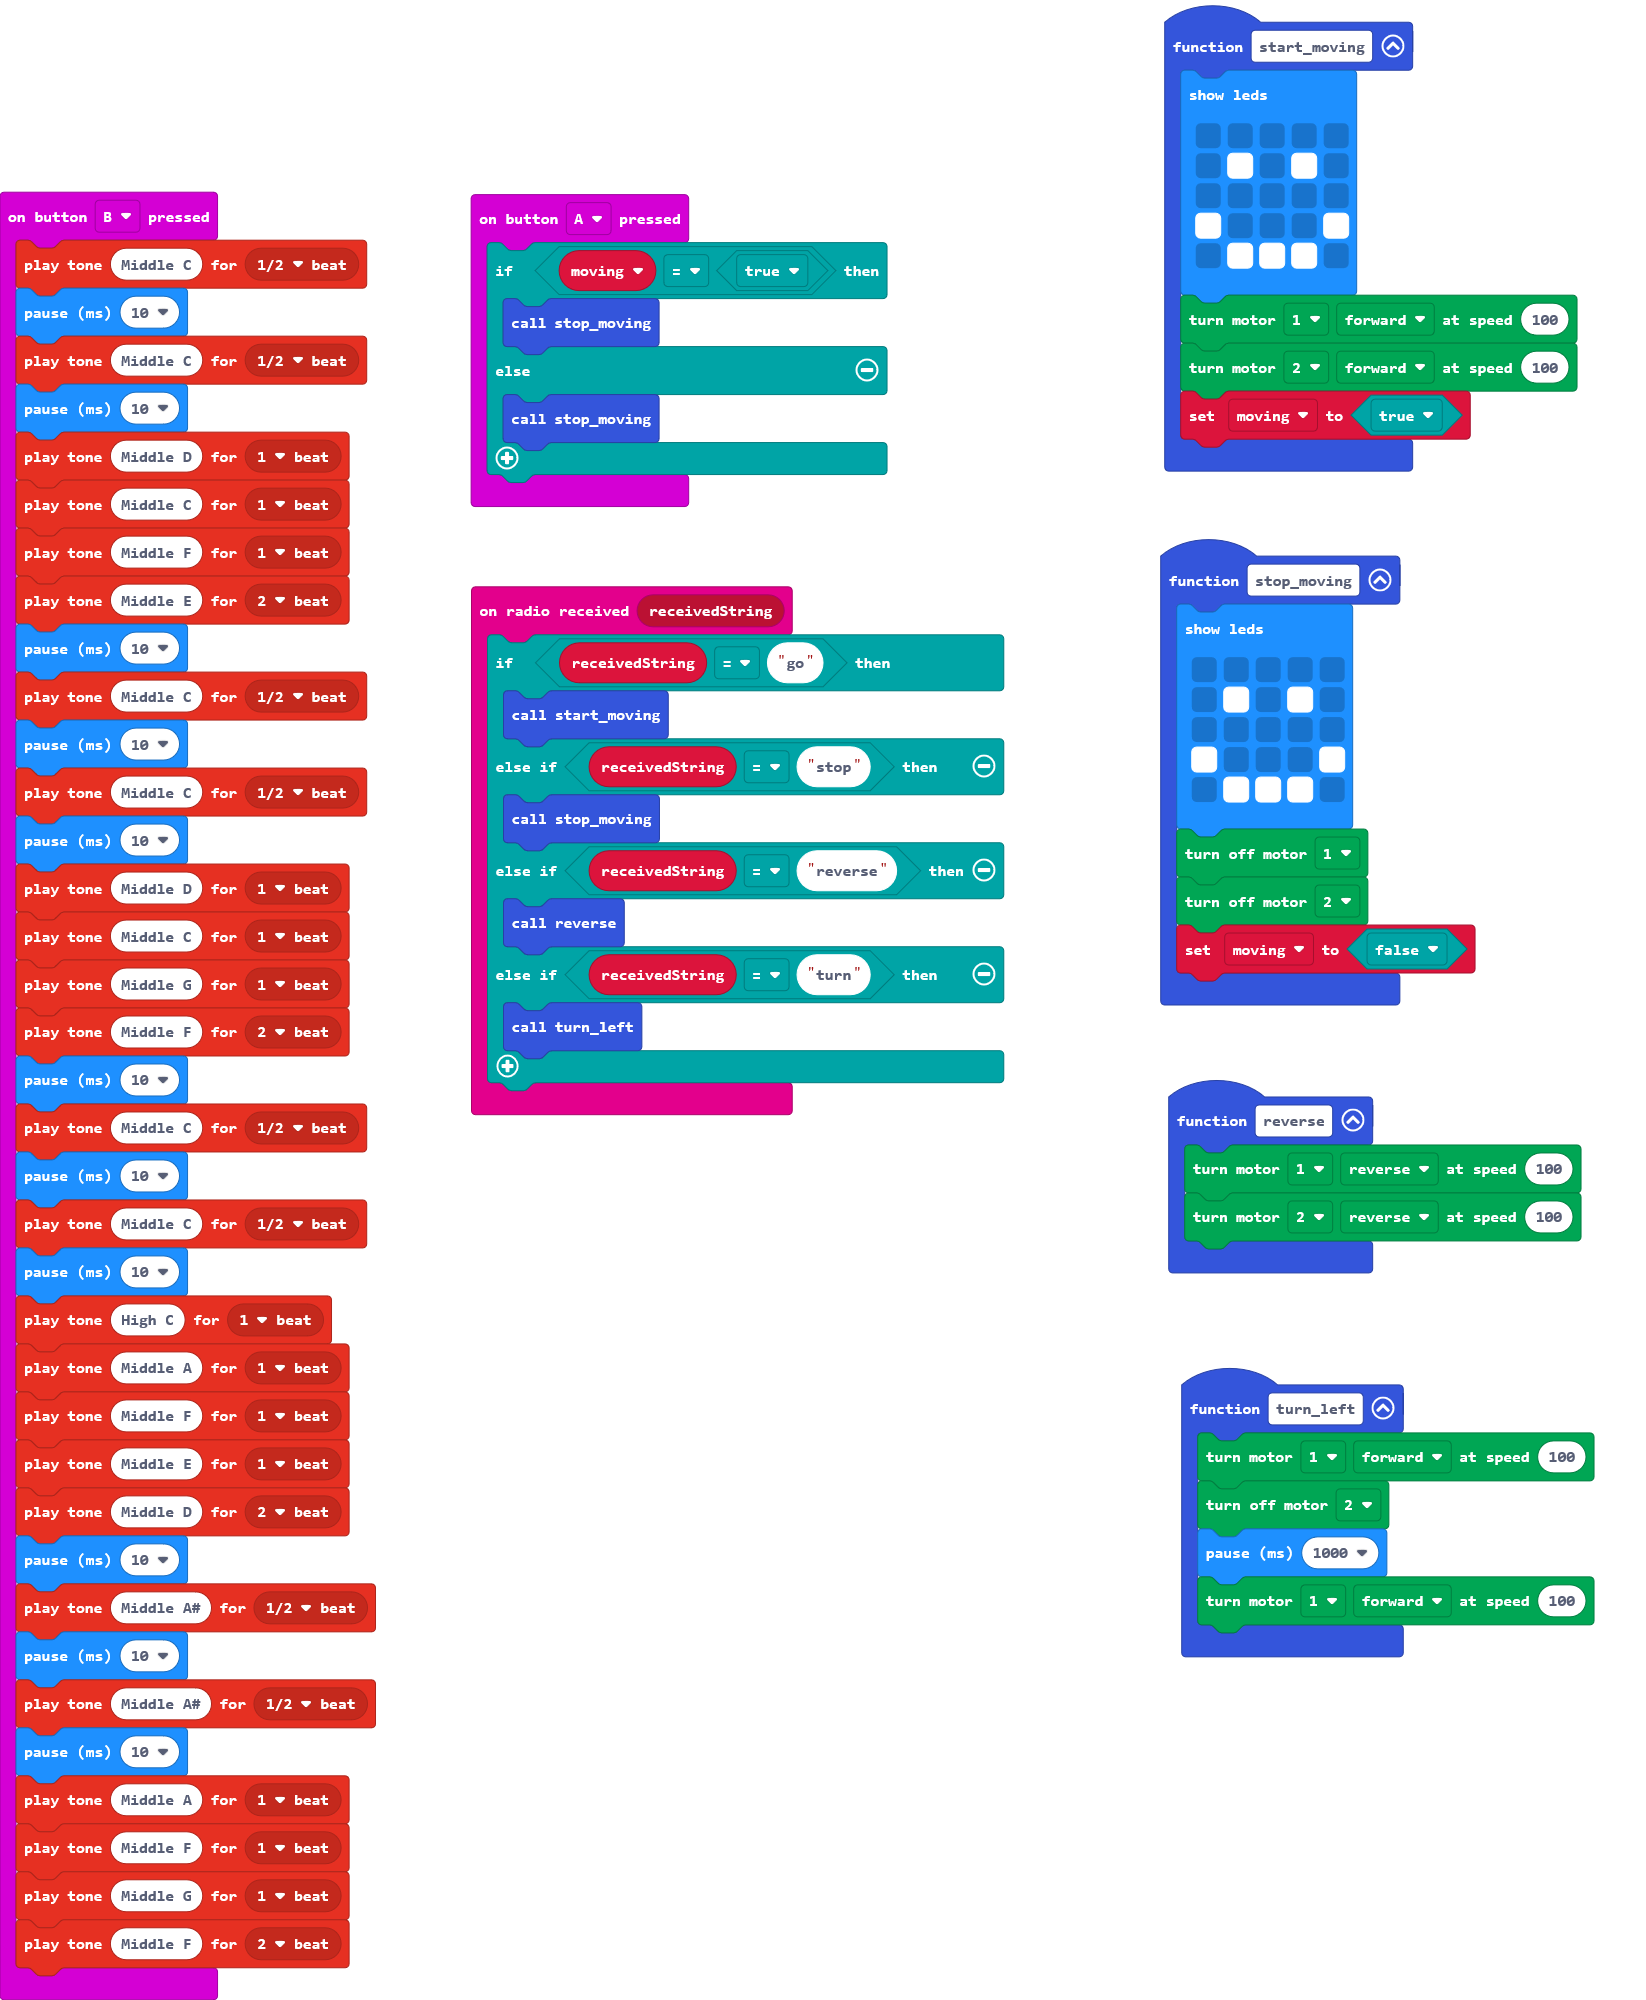
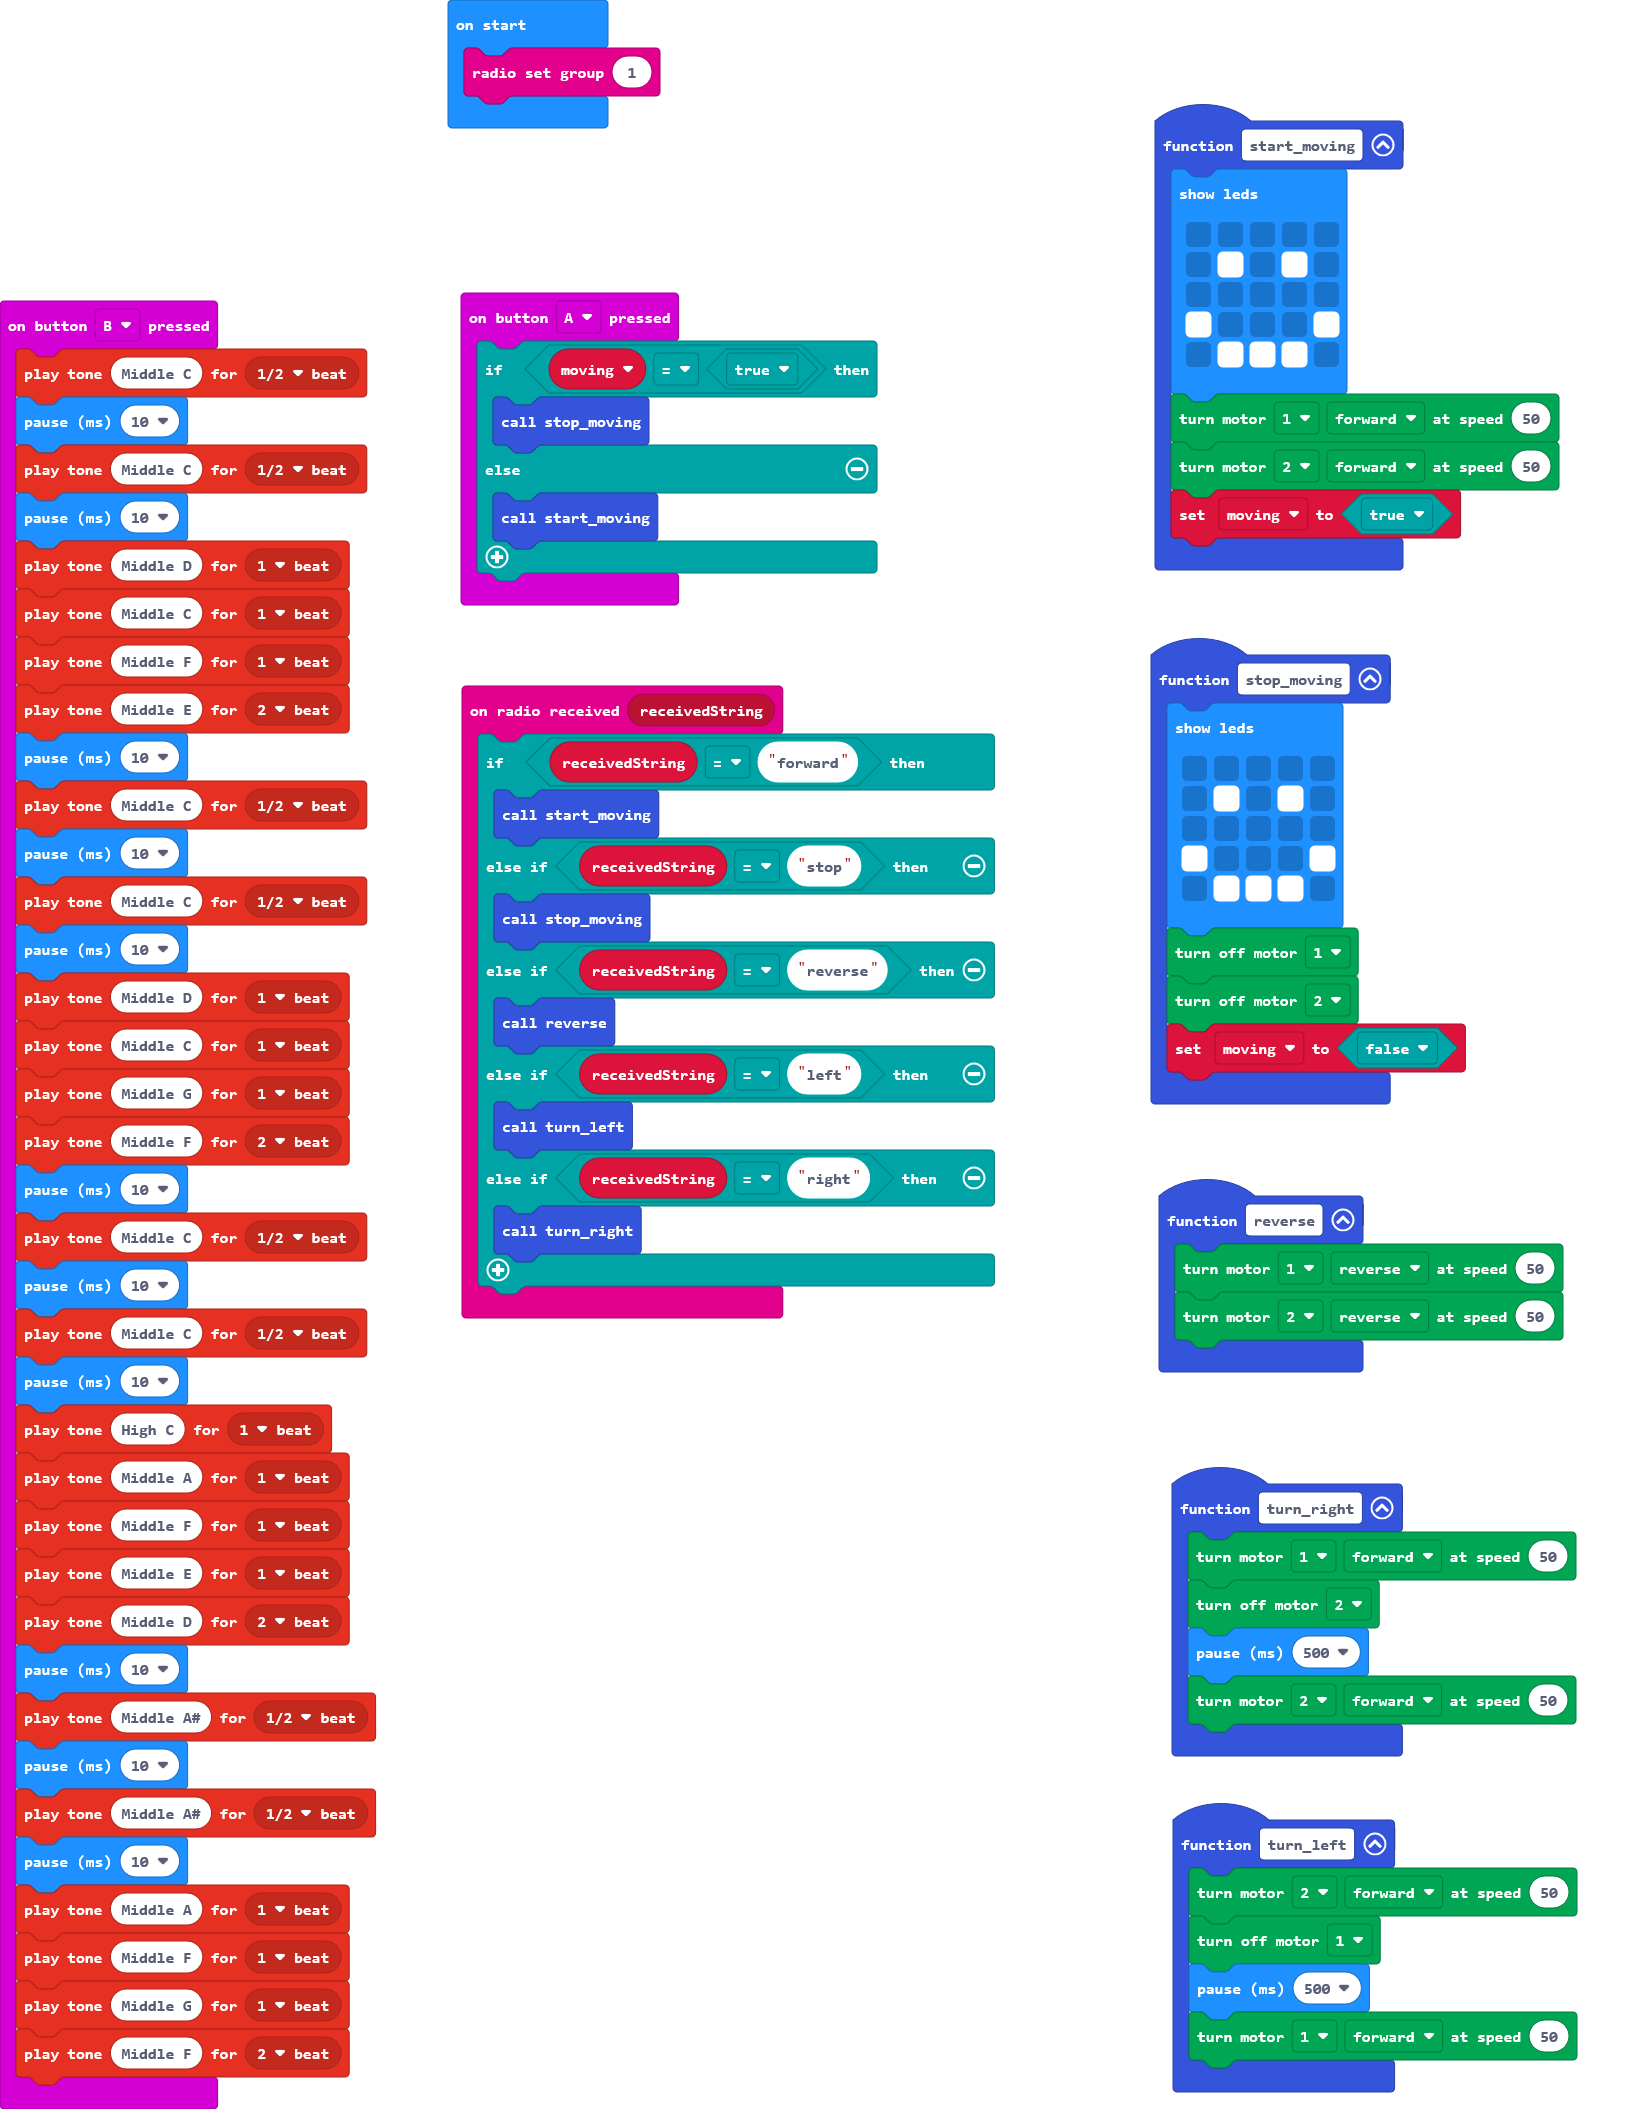
Add A+B command

diff --git a/main.ts b/main.ts
@@ -1,4 +1,3 @@
-let moving = false
 function stop_moving () {
     basic.showLeds(`
         . . . . .
@@ -15,28 +14,30 @@ input.onButtonPressed(Button.A, function () {
     if (moving == true) {
         stop_moving()
     } else {
-        stop_moving()
+        start_moving()
     }
 })
 function reverse () {
-    kitronik_klip_motor.motorOn(kitronik_klip_motor.Motors.Motor1, kitronik_klip_motor.MotorDirection.Reverse, 100)
-    kitronik_klip_motor.motorOn(kitronik_klip_motor.Motors.Motor2, kitronik_klip_motor.MotorDirection.Reverse, 100)
+    kitronik_klip_motor.motorOn(kitronik_klip_motor.Motors.Motor1, kitronik_klip_motor.MotorDirection.Reverse, 50)
+    kitronik_klip_motor.motorOn(kitronik_klip_motor.Motors.Motor2, kitronik_klip_motor.MotorDirection.Reverse, 50)
 }
 function turn_left () {
-    kitronik_klip_motor.motorOn(kitronik_klip_motor.Motors.Motor1, kitronik_klip_motor.MotorDirection.Forward, 100)
-    kitronik_klip_motor.motorOff(kitronik_klip_motor.Motors.Motor2)
-    basic.pause(1000)
-    kitronik_klip_motor.motorOn(kitronik_klip_motor.Motors.Motor1, kitronik_klip_motor.MotorDirection.Forward, 100)
+    kitronik_klip_motor.motorOn(kitronik_klip_motor.Motors.Motor2, kitronik_klip_motor.MotorDirection.Forward, 50)
+    kitronik_klip_motor.motorOff(kitronik_klip_motor.Motors.Motor1)
+    basic.pause(500)
+    kitronik_klip_motor.motorOn(kitronik_klip_motor.Motors.Motor1, kitronik_klip_motor.MotorDirection.Forward, 50)
 }
 radio.onReceivedString(function (receivedString) {
-    if (receivedString == "go") {
+    if (receivedString == "forward") {
         start_moving()
     } else if (receivedString == "stop") {
         stop_moving()
     } else if (receivedString == "reverse") {
         reverse()
-    } else if (receivedString == "turn") {
+    } else if (receivedString == "left") {
         turn_left()
+    } else if (receivedString == "right") {
+        turn_right()
     }
 })
 input.onButtonPressed(Button.B, function () {
@@ -85,7 +86,15 @@ function start_moving () {
         # . . . #
         . # # # .
         `)
-    kitronik_klip_motor.motorOn(kitronik_klip_motor.Motors.Motor1, kitronik_klip_motor.MotorDirection.Forward, 100)
-    kitronik_klip_motor.motorOn(kitronik_klip_motor.Motors.Motor2, kitronik_klip_motor.MotorDirection.Forward, 100)
+    kitronik_klip_motor.motorOn(kitronik_klip_motor.Motors.Motor1, kitronik_klip_motor.MotorDirection.Forward, 50)
+    kitronik_klip_motor.motorOn(kitronik_klip_motor.Motors.Motor2, kitronik_klip_motor.MotorDirection.Forward, 50)
     moving = true
 }
+function turn_right () {
+    kitronik_klip_motor.motorOn(kitronik_klip_motor.Motors.Motor1, kitronik_klip_motor.MotorDirection.Forward, 50)
+    kitronik_klip_motor.motorOff(kitronik_klip_motor.Motors.Motor2)
+    basic.pause(500)
+    kitronik_klip_motor.motorOn(kitronik_klip_motor.Motors.Motor2, kitronik_klip_motor.MotorDirection.Forward, 50)
+}
+let moving = false
+radio.setGroup(1)
